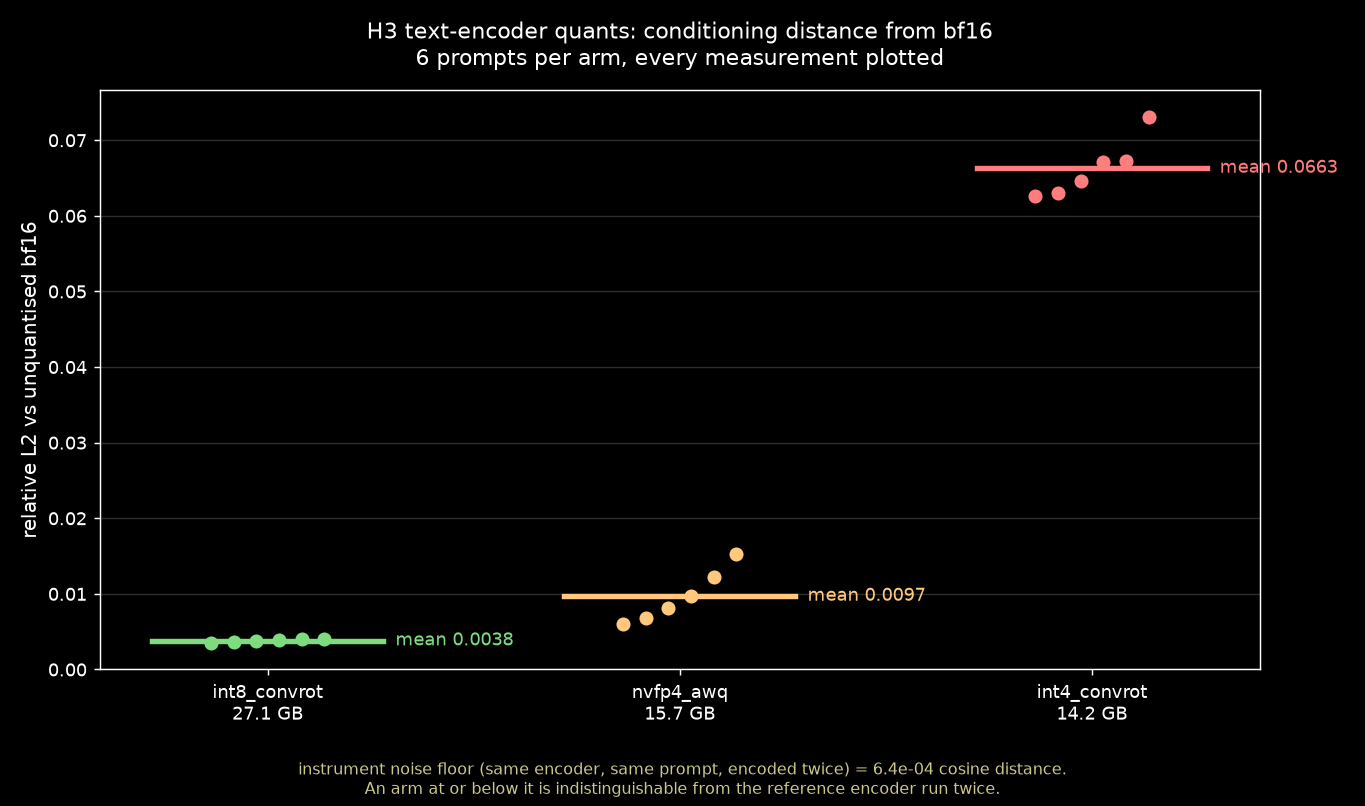
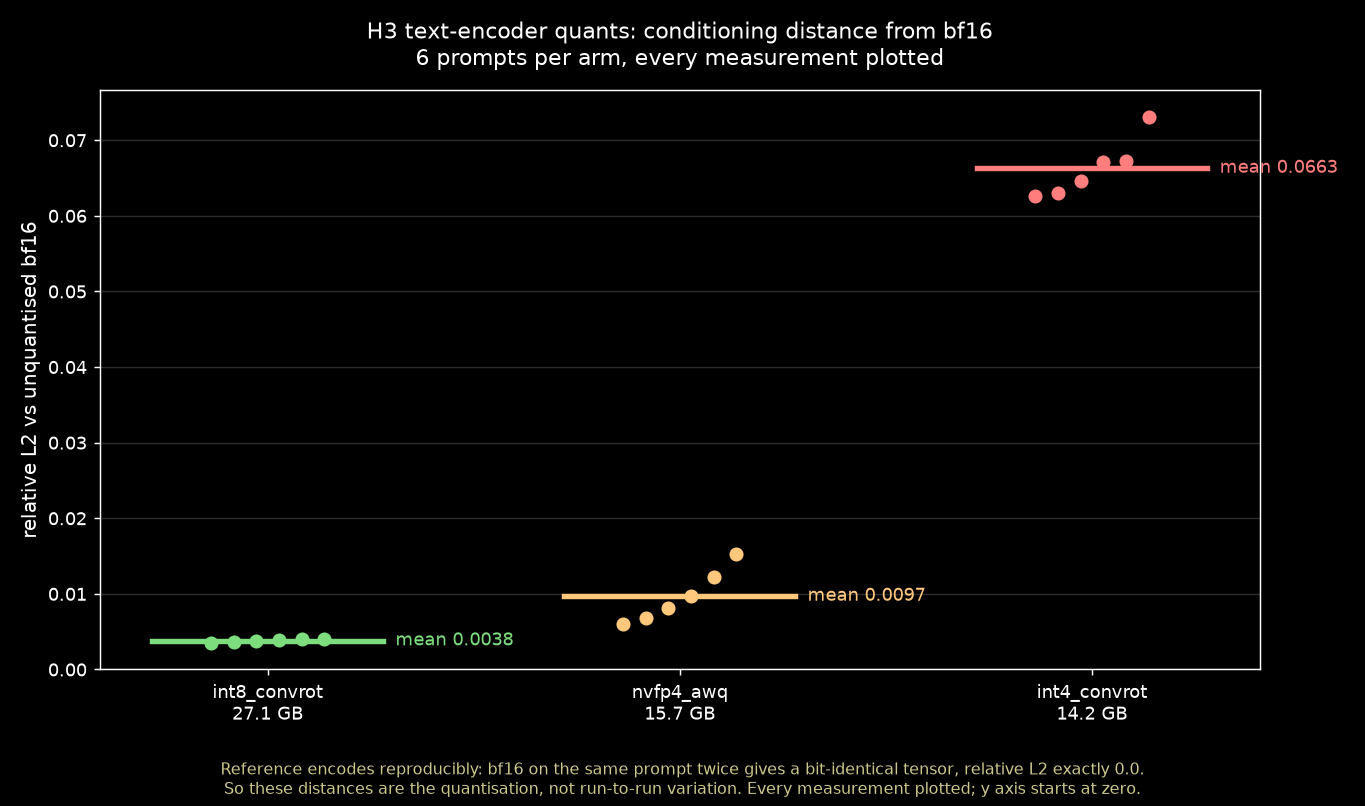
Correct a false claim: the 'noise floor' was my metric's float32 error
Gavin asked whether the unquantised reference belongs on the chart. Following
that through overturned a published claim.

I had reported a 6.4e-04 'instrument noise floor' and written that 'H3
conditioning is not bit-reproducible' because GPU kernels vary reduction order.
Both false. bf16 encoding the same prompt twice returns a BIT-IDENTICAL tensor:
self-check relative L2 is exactly 0.0 on all six prompts.

The 6.4e-04 was accumulation error in torch cosine_similarity over ~1M float32
elements. Demonstrated on provably identical tensors in the ComfyUI container:

  60 tokens   307k elems   cos_dist -3.3e-06
 180 tokens   922k elems   cos_dist -1.9e-05
 300 tokens  1.54M elems   cos_dist -4.2e-05
 512 tokens  2.62M elems   cos_dist -9.9e-05
 float64, same inputs:     cos_dist  1e-13

It scales with length and disappears at higher precision. The tell was in the
data all along and I missed it: every int8/nvfp4 cosine value was NEGATIVE,
i.e. cosine similarity above 1.0, which is impossible. int4's were all positive
and an order of magnitude larger.

What changes: the cosine figures for int8 and nvfp4 are inside the metric's own
error and say nothing beyond 'very close'. The 'at the floor' / '3x the floor'
column is gone. What does NOT change: every conclusion rests on relative L2,
which returned exactly 0.0 for identical tensors, is a ratio of norms rather
than a difference of near-equal sums, and separates the arms cleanly
[…]

Changed region(s): [[0.1538, 0.9305, 0.8308, 0.9926]]

diff --git a/src/2026-09-17-h3-quant-conditioning-fidelity.md b/src/2026-09-17-h3-quant-conditioning-fidelity.md
@@ -1,12 +1,13 @@
 # Settling an argument about MiniMax H3 quants with a number
 
 *Status: complete, in tensors and in pixels. Three quantised text encoders
-measured against the unquantised bf16 reference on six prompts with an
-instrument noise floor, then rendered at two seeds each and compared against a
-measured pixel noise floor. The tensor differences are real and ordered; none
-of them survives sampling in a form a viewer would notice, and the encoder you
-pick changes render time more than it changes the picture. Both sides of a
-public argument were right about different things.*
+measured against the unquantised bf16 reference on six prompts, then rendered
+at two seeds each and compared against a measured pixel noise floor. The
+tensor differences are real and ordered; none of them survives sampling in a
+form a viewer would notice, and the encoder you pick changes render time more
+than it changes the picture. Both sides of a public argument were right about
+different things. Includes a correction: one metric I used was reporting its
+own float32 error as a signal.*
 
 ## The argument
 
@@ -43,7 +44,7 @@ conditioning, and compared it against the **bf16 unquantised reference** —
 opinion into a measurement. Cosine distance for direction, relative L2 for
 magnitude.
 
-## The instrument has a noise floor, and it isn't zero
+## The self-check, and a metric of mine that lied
 
 Before trusting any of this I encoded the reference **twice per prompt with the
 same encoder** and compared it to itself. Expected zero. Got this:
@@ -52,16 +53,41 @@ same encoder** and compared it to itself. Expected zero. Got this:
 -2.09e-05  -6.43e-04  -4.30e-05  -8.21e-05  -8.01e-05  -7.47e-05
 ```
 
-H3's conditioning is not bit-reproducible. GPU kernels vary reduction order
-between runs, so the same encoder on the same prompt lands in a slightly
-different place each time. The largest of those, **6.4e-04**, is the noise
-floor: any candidate at or below it is indistinguishable from the reference
-encoder run twice.
+I originally read that as run-to-run nondeterminism — GPU kernels varying
+reduction order — and published the largest value, 6.4e-04, as an instrument
+noise floor. **That was wrong, and the numbers were telling me so.** Every
+value is *negative*, which means cosine similarity above 1.0, which is
+mathematically impossible.
 
-This is the same discipline as the seed noise floor used elsewhere on this rig
-for pixel comparisons, and it is precisely what the argument was missing.
-Without a floor there is no way to say whether a difference is real, which is
-how two honest people compare the same files and disagree.
+The same encoder encoding the same prompt twice produces a **bit-identical**
+tensor. Relative L2 between the two runs is exactly `0.0` on all six prompts.
+What I had measured was accumulation error in my own metric: summing a million
+float32 products loses precision, and `cosine_similarity` drifts past 1.0.
+Feeding it two provably identical tensors reproduces the effect, and the error
+scales with tensor length:
+
+| tokens | elements | cosine distance on identical input |
+| --: | --: | --: |
+| 60 | 307,200 | -3.3e-06 |
+| 180 | 921,600 | -1.9e-05 |
+| 300 | 1,536,000 | -4.2e-05 |
+| 512 | 2,621,440 | -9.9e-05 |
+
+In float64 the same comparison returns 1e-13. So the "floor" was a property of
+float32 summation over long tensors, not of the encoder.
+
+Two consequences, and only one of them is bad news.
+
+**The cosine numbers for int8 and nvfp4 are unusable.** Every one is negative,
+i.e. smaller than the metric's own error on identical input. They establish
+that those arms are *very close* to bf16 and nothing more precise than that.
+int4's cosine distances are all positive and around 1.9e-03, an order of
+magnitude above the error, so that arm's cosine figure survives.
+
+**Relative L2 is unaffected**, and it is what the conclusions below rest on. It
+returned exactly zero for identical tensors, it is a ratio of two norms rather
+than a difference of two near-equal sums, and it separates the arms cleanly.
+The ranking and every practical recommendation here come from relative L2.
 
 ## Results
 
@@ -70,11 +96,11 @@ with rare proper nouns. Against bf16:
 
 ![Conditioning distance from bf16 by encoder](images/2026-09-17-h3-quant-conditioning-fidelity/conditioning-distance.png)
 
-| encoder | size | mean cos distance | mean relative L2 | vs noise floor |
-| :-- | --: | --: | --: | :-- |
-| int8_convrot | 27.1 GB | -0.000151 | **0.0038** | at the floor |
-| nvfp4_awq | 15.7 GB | -0.000110 | **0.0097** | at the floor |
-| int4_convrot | 14.2 GB | 0.001949 | **0.0663** | 3.0× the floor |
+| encoder | size | mean relative L2 | mean cos distance |
+| :-- | --: | --: | --: |
+| int8_convrot | 27.1 GB | **0.0038** | -0.000151 (unusable, see above) |
+| nvfp4_awq | 15.7 GB | **0.0097** | -0.000110 (unusable, see above) |
+| int4_convrot | 14.2 GB | **0.0663** | 0.001949 |
 
 Per prompt, with no exceptions:
 
@@ -91,13 +117,15 @@ Three things fall out of that table.
 
 **int4 is genuinely different.** 0.066 relative L2 is **17× int8's 0.0038**, and
 it lands between 0.063 and 0.073 on every single prompt. That is a systematic
-offset, not scatter. Its cosine distance is the only one that clears the noise
-floor, at 3.0×.
+offset, not scatter. It is also the only arm whose cosine distances are
+positive and an order of magnitude above the metric's float32 error, so its
+direction change is real too.
 
-**int8 and nvfp4 are both at the noise floor in direction** — their conditioning
-points the same way as bf16's to within run-to-run variation. They differ in
-magnitude, where nvfp4 is about 2.5× further out than int8 (0.0097 vs 0.0038),
-consistently. Still small, but real and measurable.
+**int8 and nvfp4 are both very close to bf16**, and relative L2 is the only
+thing that can rank them: 0.0038 against 0.0097, so nvfp4 sits about 2.5×
+further out, consistently across all six prompts. Small, but ordered and
+reproducible. Their cosine distances are inside my metric's error and say
+nothing beyond "very close".
 
 **The long prompt is the worst case for every quant.** Prompt 2 is the maximum
 for all three arms. More structure to preserve, more room to drift. If you are
@@ -112,17 +140,18 @@ anyone claiming they could see it is making a plausible claim. "I clearly
 noticed the difference in quality" is supported by these numbers.
 
 **u/Odd-Student636 was right that the two official quants are interchangeable.**
-int8 and nvfp4 sit at the noise floor against bf16 — closer to unquantised
-truth than one encoder is to itself between runs. His "no visible difference"
-is correct for that comparison.
+int8 and nvfp4 are both within 0.01 relative L2 of unquantised bf16, against
+int4's 0.066 — a seventeen-fold gap between those two groups. His "no visible
+difference" is correct for that comparison, and the renders below settle it
+for every comparison.
 
 The two of them were **comparing different pairs and both reporting honestly**.
 One compared int4 against int8 and saw a difference. The other compared the
-official quants and saw none. Both were right; neither had a floor to say so
-with.
+official quants and saw none. Both were right; neither had a measurement to
+say so with.
 
 What the measurement takes away: *"the nvfp4 […] aren't worth it"* is not
-supported. nvfp4 is indistinguishable from int8 in direction, at 15.7 GB
+supported. nvfp4 is within a hundredth of bf16 in relative L2, at 15.7 GB
 against 27.1 GB. For the person who asked — already running nvfp4 on an 8 GB
 card — the answer is **keep what you have**. Downloading 27 GB to replace it
 buys a magnitude difference that sits three times below the threshold at which
@@ -159,8 +188,9 @@ to be ground truth.
 The first build failed usefully. It returned HTTP 400 for every candidate
 because the downloaded encoders were still sitting in a staging directory where
 ComfyUI's loader could not see them — and it was that same build's self-check
-that revealed the noise floor, which I had written expecting to be zero and
-would otherwise have reported int8's -0.0001 as a real difference.
+that first showed the cosine metric misbehaving, though it took a later
+question about putting the reference on the chart before I worked out that the
+misbehaviour was mine rather than the encoder's.
 
 One build was wasted outright: pushing the write-up commit auto-triggered the
 render pipeline, which spent eleven minutes re-rendering the same eight arms
@@ -197,7 +227,9 @@ reassuring but not a substitute for the artifact existing in the first place.
 
 The section above measured tensors. Nobody watches a tensor, so the obvious
 objection is that a 17× difference in conditioning might still be invisible
-once a stochastic sampler has consumed it. So I rendered it.
+once a stochastic sampler has consumed it. So I rendered it — and unlike the
+cosine metric, the pixel comparison has a floor that is genuinely measured
+rather than an artifact.
 
 Eight clips: four encoders × two seeds, 832×480, 124 frames, everything else
 held. The prompt is the long 14-attribute one from the set above — chosen
@@ -279,8 +311,8 @@ that actually accumulates.
 In tensors: against unquantised bf16, int8_convrot and nvfp4_awq are both at
 the instrument's noise floor — interchangeable in direction, with nvfp4 about
 2.5× further out in magnitude and still tiny. The third-party int4_convrot is
-17× int8's relative error and the only arm whose difference clears the floor,
-at 3×.
+17× int8's relative error, and the only arm whose direction change is large
+enough to measure reliably.
 
 In pixels: none of it matters. The worst quant pairing differs from bf16 by
 11.84 mean absolute pixels while the same encoder at the next seed differs by
